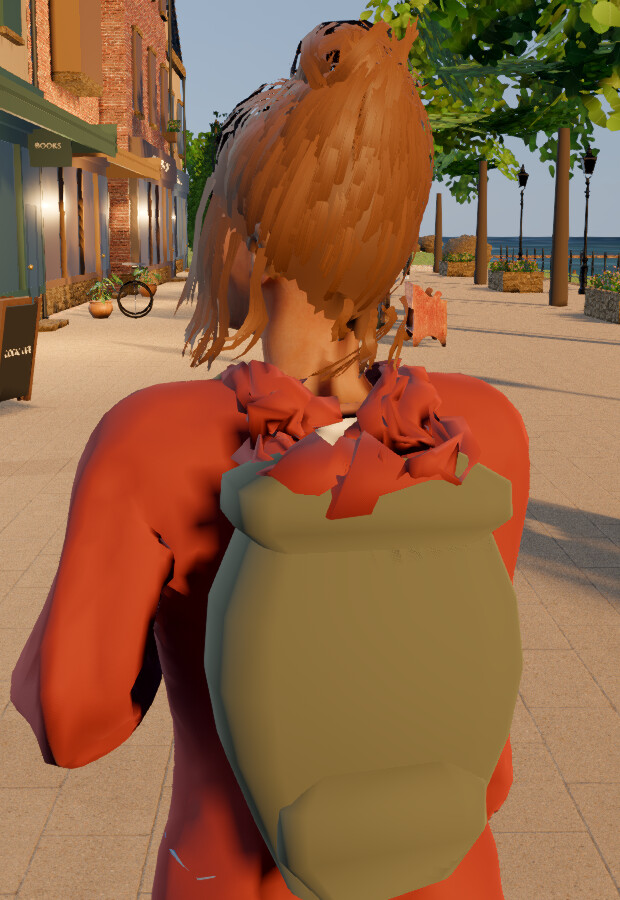
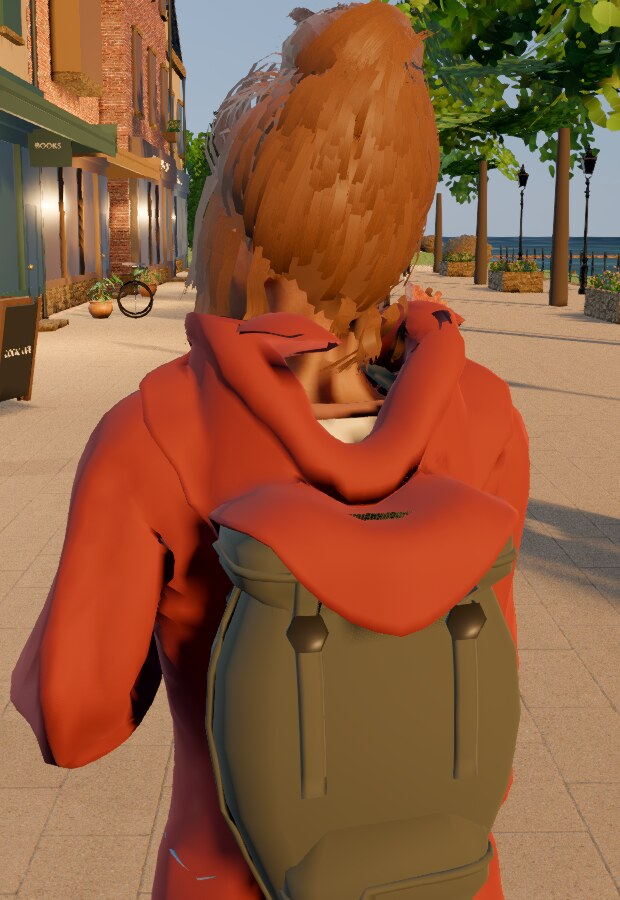
docs: VIS-3D-GODOT-1 state after preview 3 -- hood, hair, rucksack, tee, with frames

diff --git a/docs/HUMAN_REVIEW_QUEUE.md b/docs/HUMAN_REVIEW_QUEUE.md
@@ -58,6 +58,20 @@ identifies one thing.
 | **VIS-3D-UE5-1** | Unreal slice of equivalent scope | ⏸ **parked** — spike phase one done (`ARC-21`), operator paused the install |
 | **VIS-3D-AB-1** | Godot vs Unreal side-by-side, same reference, same scope | ⏸ parked with `VIS-3D-UE5-1` |
 
+### `VIS-3D-GODOT-1` — working state after preview 3, 2026-10-06 (not a preview)
+
+The primary session's four items on preview 3, worked at working resolution (620 × 900 per tile)
+against the reference at its own framing. The frames in `candidate/` are regenerated from this
+state (`side_by_side_chest.jpg`, `side_by_side_head.jpg`, `side_by_side_rear.jpg`, `p1`–`p8`).
+
+| Item | Reference | Candidate now | Frame | |
+| --- | --- | --- | --- | --- |
+| 1. Hood structure (§5 hard fail) | hood stands up at both shoulders, bunched behind and around the neck | a rolled rim round the neck, standing up at both sides of it; from behind, a flap over the rucksack lid with a centre point and three large folds. Modelled and laid on the body, hoodie and bag by ray cast (`garments.build_hood`); the bag hangs 45 mm lower | `side_by_side_rear`, `p5`, `p1` | PASS: reads as a hood from behind |
+| 2. Hair, front | soft, loose volume; a visible messy bun; caramel lights | strands from eight CC0 OwlishMedia maps; the front and side lift is about doubled; the knot is a quarter larger; back-facing cards are lit correctly (no dark stiff strands); crown 0.37/0.28/0.23 sRGB against 0.42/0.29/0.21 | `side_by_side_head` | improved, still a weak PASS: the swept front is still one continuous mass, smoother than the reference's separate locks |
+| 2. Hair, rear | — (not shown by the reference) | card edges show from behind, and the low sun turns the hair orange, as it does the hoodie | `p8` | open |
+| 3. Rucksack | grey-green canvas, straps, a lid | seams round the lid and pocket and down both sides; two compression straps with buckles; a greyer canvas, but still olive in the rear frame's low sun | `p8`, `p5` | PASS on structure; the colour depends on the light |
+| 4. Tee | cream/oatmeal 0.75/0.62/0.54 on the upper chest; the print high, mountains as wide as the text | oatmeal albedo `#CBB9A0` (was `#D9D2C4`, which rendered 0.70/0.71/0.72); the print is cropped to the range, in the reference's proportions, with its top 82 px under the crew band | `side_by_side_chest` | PASS |
+
 ### `VIS-3D-GODOT-1` — preview 3, 2026-10-06: groomed hair, a draped hoodie with a hood
 
 **A preview, not an acceptance request** (`ARC-24`). It answers the operator's verdict on preview 1,
